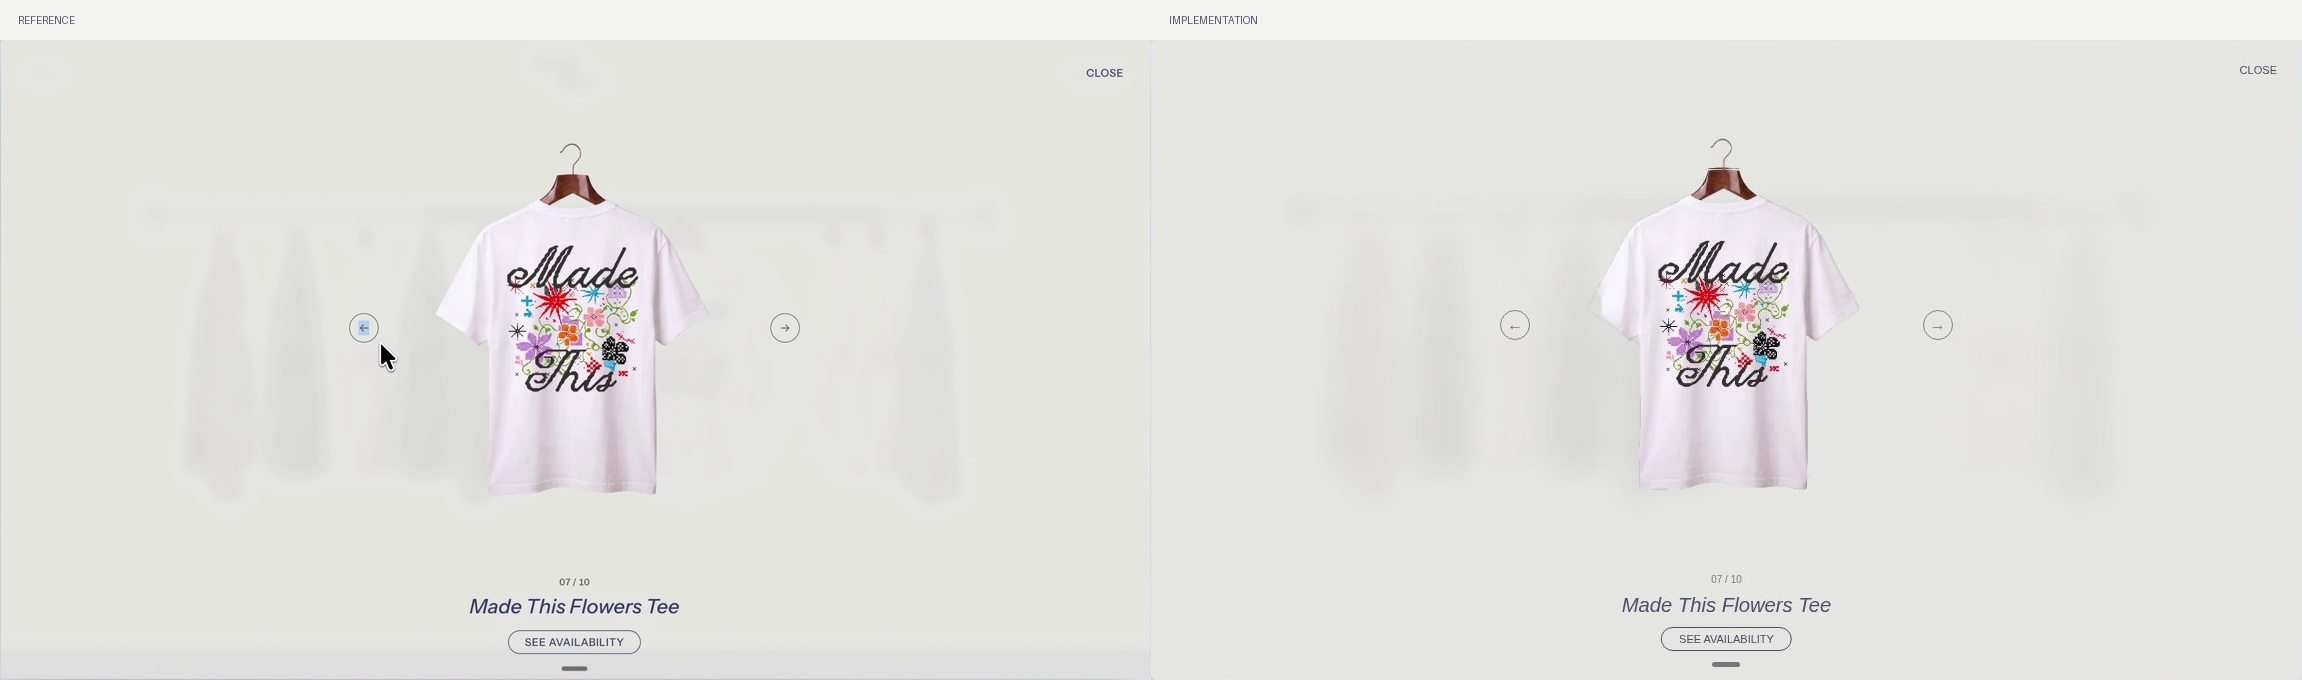
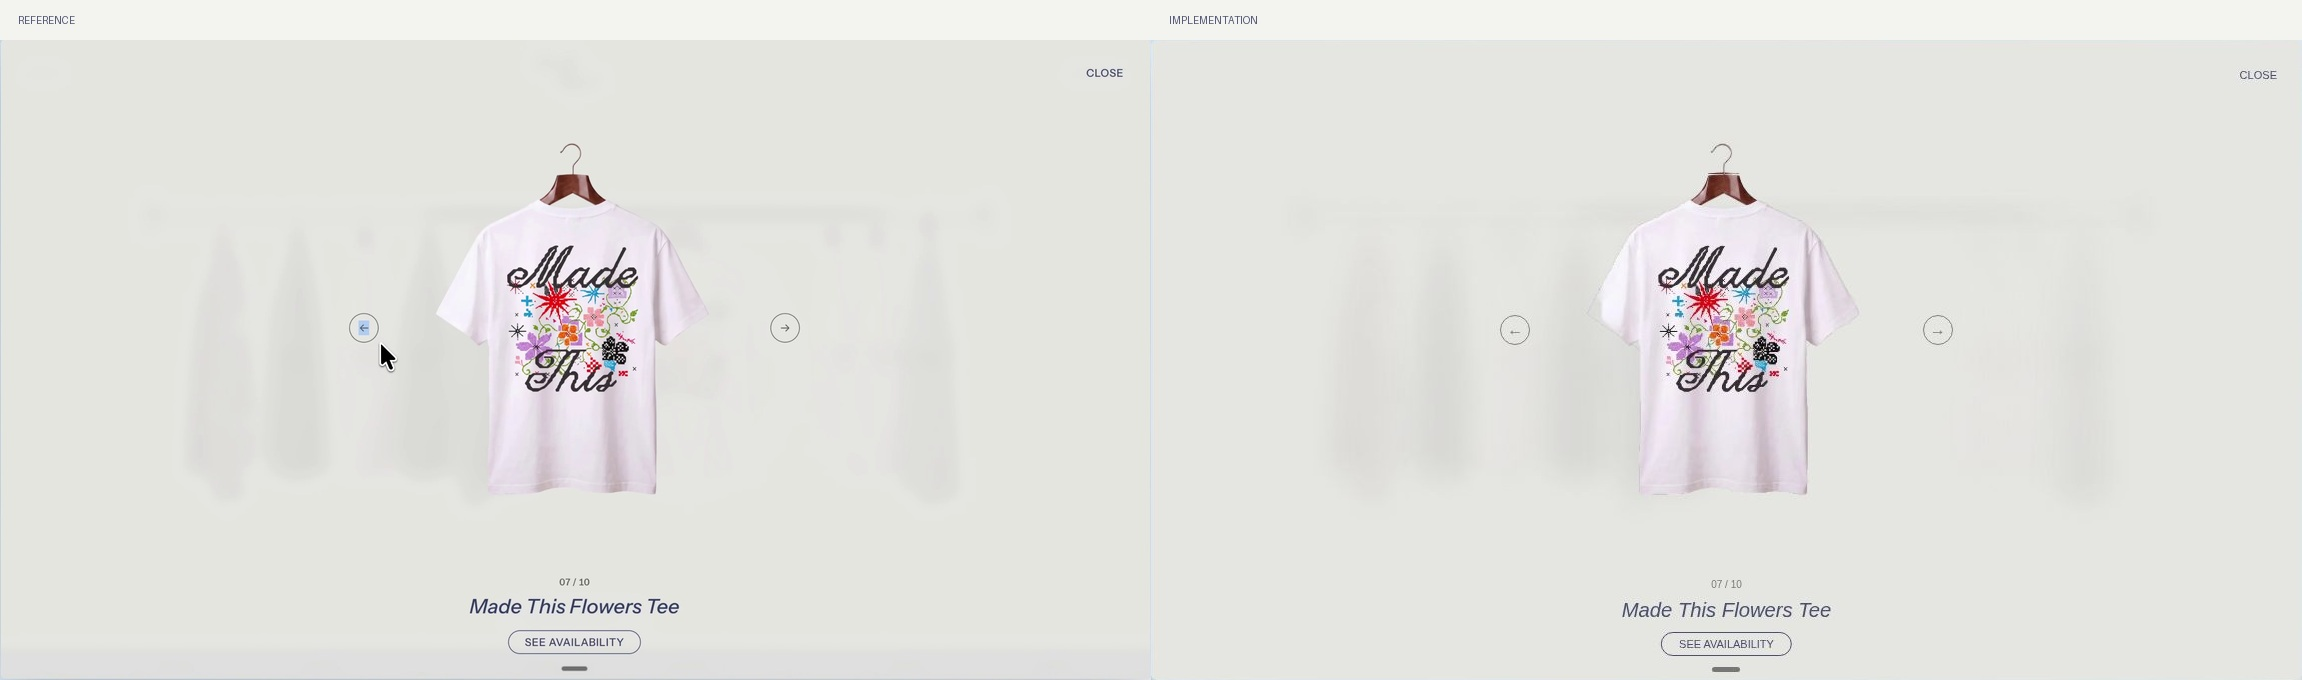
Update Site source

diff --git a/app/globals.css b/app/globals.css
@@ -8,7 +8,7 @@ button{font:inherit;color:inherit;cursor:pointer}
 button:focus-visible{outline:2px solid var(--ink);outline-offset:6px}
 button:disabled{cursor:wait}
 .world{height:100svh;min-height:420px;width:100%;display:flex;align-items:center;justify-content:center;background:linear-gradient(130deg,#c7e3f9 0%,#deeffd 56%,#fff 100%);position:relative;overflow:hidden}
-.wardrobe{width:min(84.45vw,calc(75vh * 1.79753));aspect-ratio:2912/1620;position:relative;border-radius:5px;container-type:inline-size;background:var(--wall);box-shadow:0 32px 68px #233c5545,0 12px 36px #54647325;overflow:hidden}
+.wardrobe{width:min(84.45vw,calc(75vh * 1.79753));aspect-ratio:2912/1620;position:relative;border-radius:5px;container-type:inline-size;background:var(--wall);box-shadow:0 32px 68px #233c5545,0 12px 36px #54647325;overflow:clip}
 .wall{position:absolute;inset:9.5679% 0 0;background-position:1.614cqw 0;background:var(--wall) url('/wall-tile.webp') repeat;background-position:1.614cqw 0;background-size:6.73077cqw 5.35714cqw;transition:opacity .5s}
 .header{position:absolute;inset:0 0 auto;display:flex;align-items:center;justify-content:space-between;padding:1.75cqw 2.16cqw;z-index:3;transition:opacity .32s;pointer-events:none}
 .header>*{pointer-events:auto}

diff --git a/docs/qa/verification.md b/docs/qa/verification.md
@@ -5,6 +5,7 @@
 - The seven observed turn sequences were registered around each hanger pivot.
 - Clean product photographs were checked against their reference holds, including separate garment scales, vertical placement, and hook height.
 - Browser QA at 1363 × 936 covered pointer selection, keyboard focus and Enter, previous/next navigation, Escape/close, adding/removing the hoodie, the hoodie product viewer, availability, and the 18.933-second reference replay.
+- The final side-by-side check caught a five-pixel focus-induced scroll inside the card. `overflow: clip` keeps the card fixed while preserving the rounded clipping.
 - The browser's injected cursor attributes caused an extension-only hydration warning; no application runtime errors were observed.
 - WebMCP registration is feature-detected. This preview browser exposed no registered tools, so WebMCP execution validation was unavailable.
 - Next.js static production build, TypeScript checking, and ESLint passed. The final publishing workflow runs them on the exact committed source.

diff --git a/README.md b/README.md
@@ -45,12 +45,21 @@ The runtime assets live in `public/garments/`, and `lib/garments.json` controls 
 
 ## GitHub destination
 
-Prepared for `https://github.com/joshuaM07/wardrobe-viewer`. Nothing has been pushed to GitHub. The `github` remote is reserved for that destination; the managed source remote stores the Sites preview independently.
+Prepared for `https://github.com/joshuaM07/wardrobe-viewer`. Nothing has been pushed to GitHub. The `github` remote points to that destination. Sites retains a separate copy of the source for this preview.
 
 When you choose to push later:
 
 ```sh
 git push github HEAD:main
+```
+
+If you start from the downloaded ZIP, initialize its Git metadata first:
+
+```sh
+git init -b main
+git add .
+git commit -m "Recreate the interactive wardrobe"
+git remote add github https://github.com/joshuaM07/wardrobe-viewer.git
 ```
 
 The target repository was empty when inspected. Use your own GitHub authentication; credentials are not bundled with the project.
